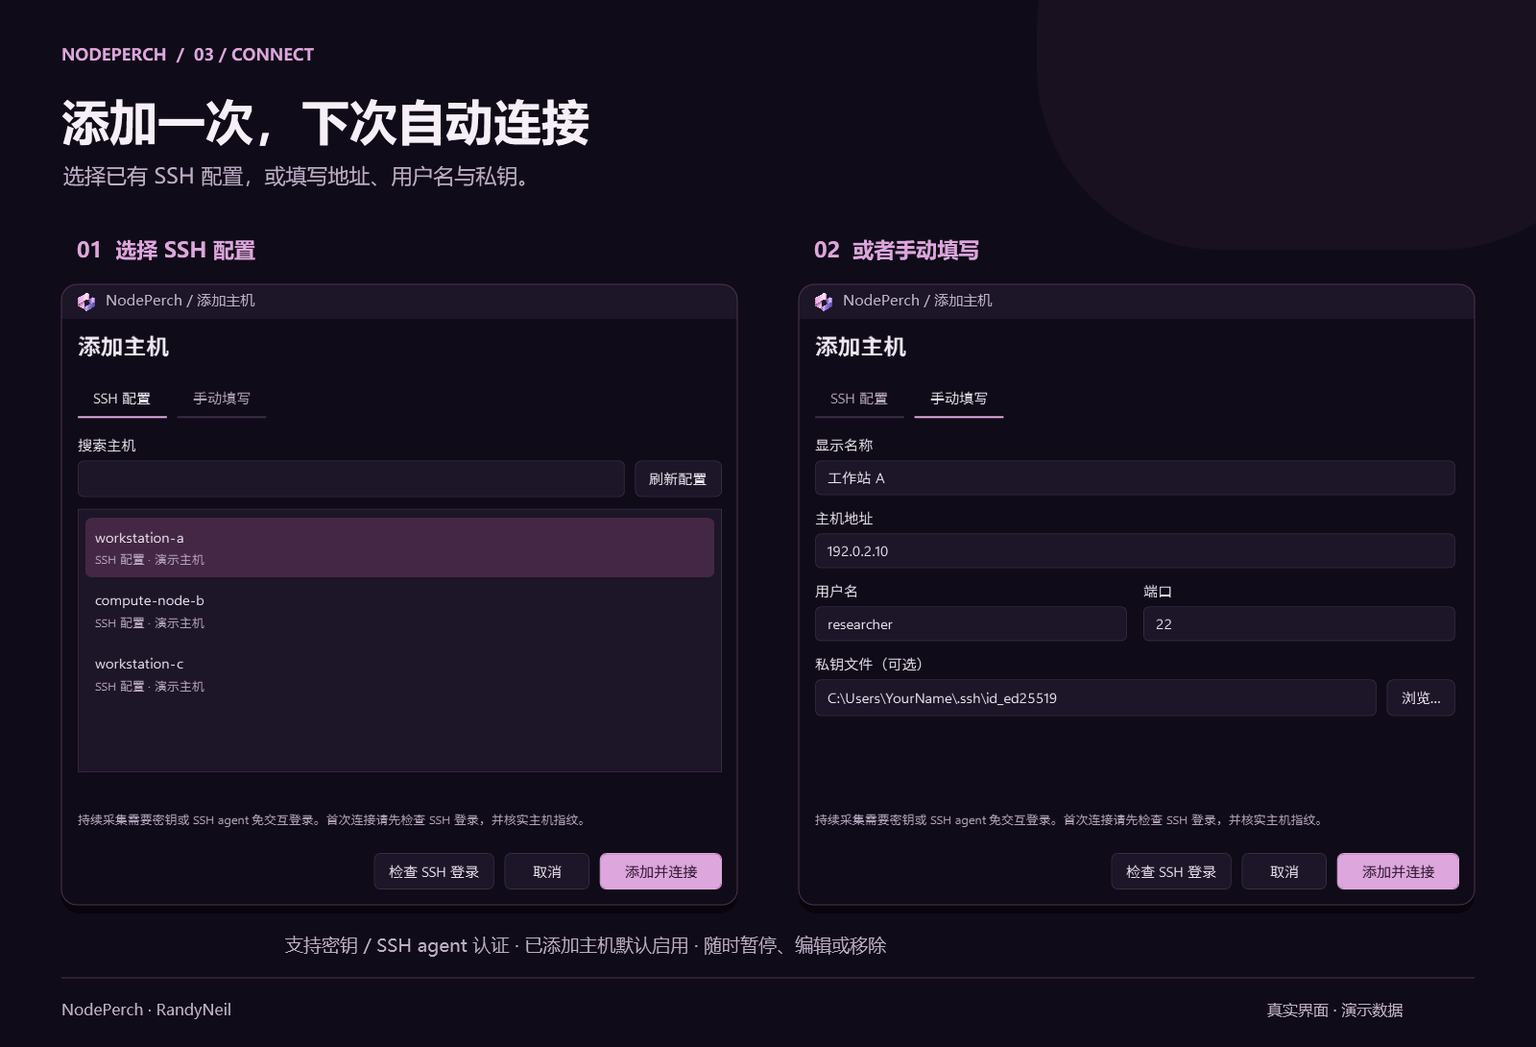
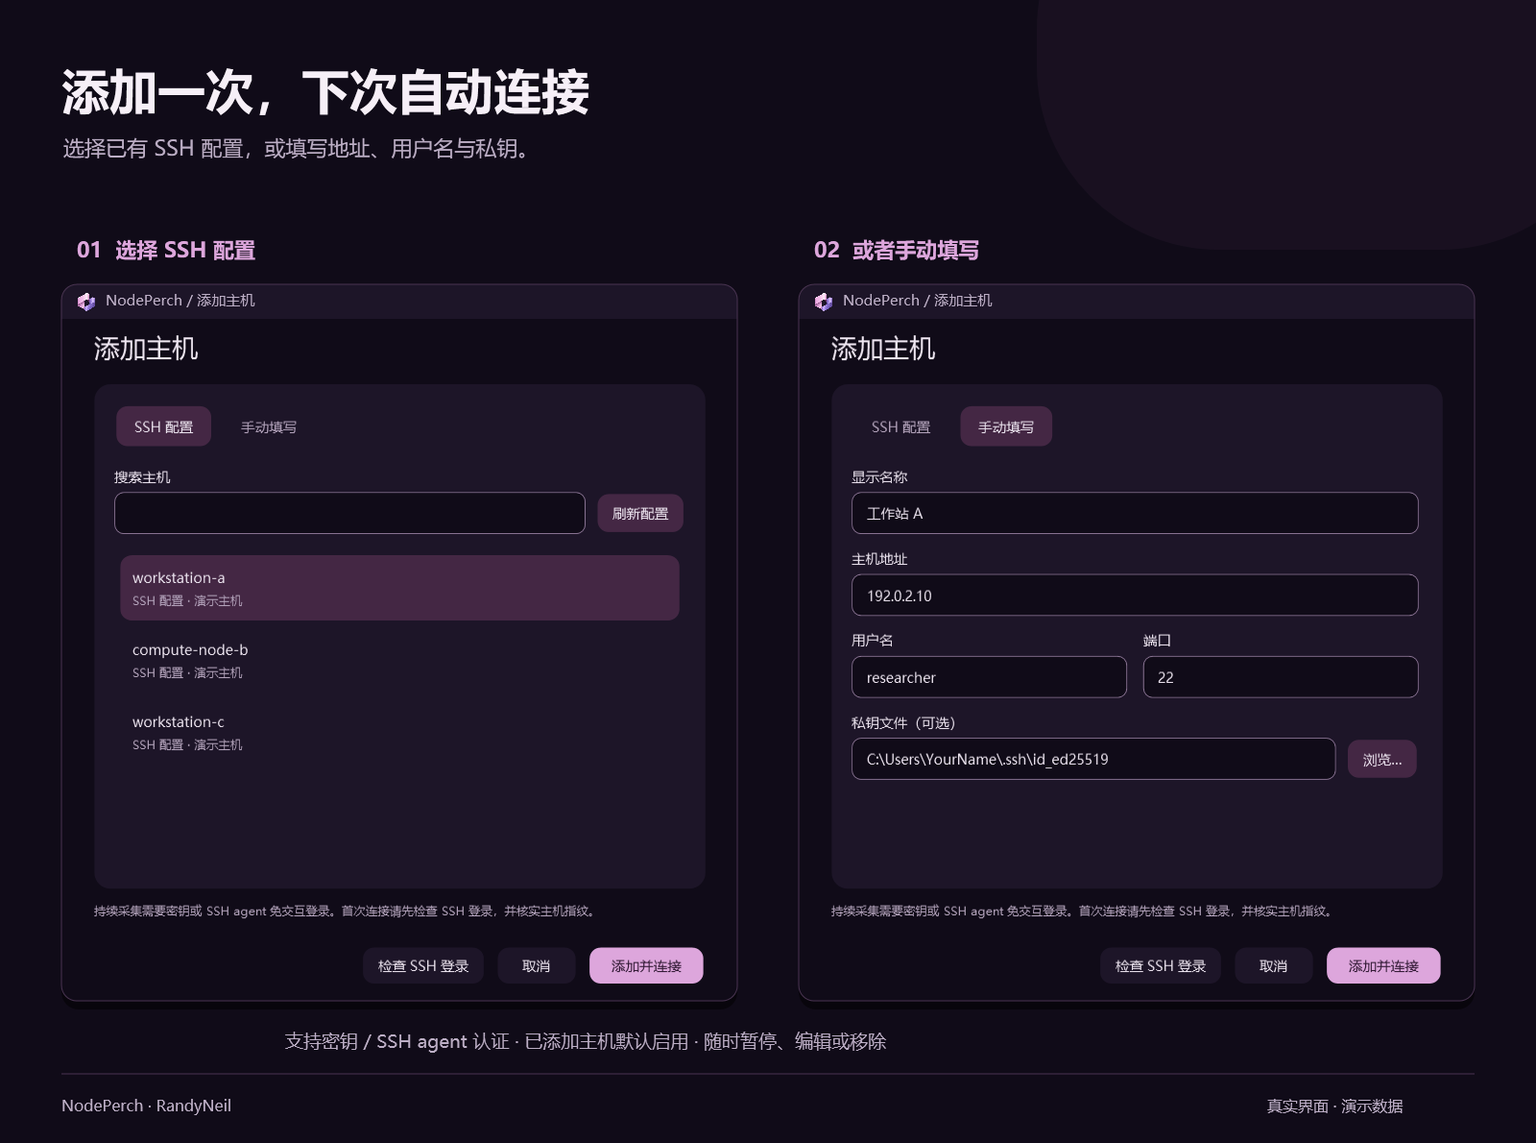
Publish collaboration preview guide and refreshed product screenshots

diff --git a/使用说明.md b/使用说明.md
@@ -1,40 +1,58 @@
 # NodePerch 使用说明
 
-作者：**RandyNeil**。当前版本：**0.4.0**。
+**版本：0.5.0-preview.14 · 协作预览版　作者：RandyNeil**
 
-NodePerch 是中文 Windows 资源看板，通过 SSH 查看多台 Linux／Windows 主机的 CPU、GPU、内存和进程。个人学习、非商业教学与科研可免费使用，完整许可见随包的 `LICENSE.txt`。商业使用和对外分发修改版需要作者另行书面授权。
+NodePerch 是中文 Windows 多机资源看板，通过 SSH 查看 Linux／Windows 主机的 CPU、GPU、内存和进程，并提供整机使用登记、排队和留言。
 
-## 打开与添加主机
+## 安装与连接
 
-1. 将整个 ZIP 解压到本机文件夹，双击 `NodePerch.exe`。不要在压缩包内直接运行，也不要只复制 EXE。
-2. 首次打开点击“添加第一台主机”。可以选择本机 SSH 配置中的别名，或手动填写名称、地址、用户名、端口和私钥路径。
-3. 新主机可点击“检查 SSH 登录”，在终端核实主机指纹和登录情况。完成后输入 `exit` 退出终端，再点击“添加并连接”。
-4. 持续采集需要密钥或 SSH agent 免交互登录。软件不保存密码或私钥内容；如果只能手动输入密码登录，后台采集仍会提示认证失败。
-5. 收到数据后主机加入列表并默认启用；以后启动自动连接全部启用主机。右键主机可以暂停、编辑连接或移除。
+1. 完整解压 Windows x64 运行包，双击 `NodePerch.exe`。不要在压缩包内直接运行，也不要只复制 EXE。
+2. 点击“添加主机”，选择已有 SSH 配置，或填写地址、用户名、端口和私钥路径。
+3. 首次连接可点击“检查 SSH 登录”，在终端核实主机指纹并完成登录；输入 `exit` 后返回看板。
+4. 点击“添加并连接”。后台采集需要密钥或 SSH agent 免交互登录，仅能手动输入密码的连接暂不适用。
 
-本机需要 64 位 Windows、.NET Framework 4.8 和 OpenSSH 客户端。打开看板不需要本机 Python、PowerShell 引擎或源代码。若提示缺少 SSH，请在 Windows“设置 → 可选功能”中安装 OpenSSH 客户端。
+| 位置 | 要求 |
+| --- | --- |
+| 本机 | 64 位 Windows、.NET Framework 4.8、OpenSSH 客户端 |
+| Linux 主机 | SSH 登录权限、`/usr/bin/python3` |
+| Windows 主机 | SSH 登录权限、PowerShell 5.1 |
+| NVIDIA GPU 指标 | 远端可执行 `nvidia-smi`；没有支持的显卡仍可查看 CPU 和内存 |
 
-远端需要已配置 SSH 服务。Linux 使用 `/usr/bin/python3`；Windows 使用 PowerShell 5.1；NVIDIA 指标需要 `nvidia-smi`。软件不自动安装这些组件，不在远端安装监控服务。
+本机无需安装 Python。程序不保存密码或私钥内容，不改写 SSH 配置；远端不安装常驻监控服务。
 
-## 日常使用
+## 查看资源
 
-- 每台启用主机默认五秒采样，保存最近十分钟 CPU／GPU 曲线。点击总览卡片进入详情，切换不停止其他主机采集。
-- CPU 表默认显示活跃进程；按内存排序时显示全部。未知指标显示“—”。
-- 点“×”收起到托盘，后台继续采集；最小化行为不变。右键托盘选择“退出”才彻底停止采集。重复启动恢复原窗口。
-- “关于”可查看作者、版本和完整使用许可。支持跟随系统、浅色、深色主题。
-- 更新前先从托盘退出旧版，再打开新版；旧版仍运行时双击新版会唤回旧窗口。已有设置继续保存在 `%LOCALAPPDATA%\SharedResourceDashboard\settings.json`。
-- 如需桌面入口，可右键 EXE 创建快捷方式，或运行随包的 `create_desktop_shortcut.ps1`。这个可选操作使用 Windows PowerShell，不影响直接打开 EXE。
+- 所有启用主机每五秒采样，缓存本次运行中最近十分钟的 CPU／GPU 曲线。总览与详情复用连接和缓存，切换页面不停止其他主机。
+- 总览每台主机一张卡片，CPU／GPU 分区显示，各条曲线有独立时间刻度。点击卡片进入详情；多 GPU 可在详情页选择显卡。
+- CPU 进程默认显示“活跃进程”；按内存排序时显示全部。筛选只影响界面，未知指标显示“—”。
+- 右键侧栏主机可重命名、编辑连接、暂停、启用或移除。离线自动重试；暂停显示橙色状态，离线显示红色状态。
+- 右上角太阳／月亮图标切换深浅主题。界面使用系统字体，动效遵循 Windows 动画设置。
 
-请保留 EXE、运行库、图标、许可与说明在同一发行目录。配置不随程序目录移动，分享包中也没有作者的主机设置或密钥。
+## 协作与留言
 
-## 分享与反馈
+点击“协作排队”，先保存昵称，再启用该主机协作。默认自动准备远端共享协作目录；不同 SSH 账号共同使用时，可能需要管理员配置目录权限。
 
-可以向同学免费转发完整、未修改的发行包，并保留署名和使用许可。
+支持申请、取消、开始／结束使用登记、排队成员状态和留言。当前使用者与下一位直接显示在资源详情和总览卡片中。留言按回车发送，Shift+回车换行；本人气泡靠右，其他成员靠左。“清空本机显示”仅隐藏自己的历史视图，新留言继续显示。
 
-- 项目主页：https://github.com/NeilRandy/NodePerch
-- 下载与版本记录：https://github.com/NeilRandy/NodePerch/releases
-- 问题反馈：https://github.com/NeilRandy/NodePerch/issues
+提醒默认关闭，可由本人在“协作设置”中开启。协作通过现有 SSH 会话每五秒同步；这是整机使用协调工具，不会阻止他人登录、限制计算任务或强制分配 GPU。昵称不是经过验证的个人身份，适合相互信任的团队使用。
 
-反馈时建议提供软件版本、Windows 版本、远端系统、操作步骤和错误文字。截图请遮盖不希望公开的地址、用户名及进程信息，不要发送私钥或密码。
+首次设置、排队规则、权限和本机双人演示见[协作使用指南](协作使用指南.md)。
 
-本机客户端为 C#／WPF 程序，远端采集脚本内嵌。软件采用非商业许可，完整条款见 `LICENSE.txt`。曲线只保存在内存中，退出后清空，不提供长期历史记录。
+## 托盘、设置与更新
+
+- 点“×”收起到托盘并继续采样；最小化行为不变。真正退出请使用托盘菜单“退出”。
+- 隐藏时停止界面刷新，后台采样与协作继续；重复启动会唤回原窗口。
+- 更新前先从托盘退出旧版，再解压并打开新版。旧版仍运行时，打开新版会唤回旧窗口。
+- 主机和主题保存在 `%LOCALAPPDATA%\SharedResourceDashboard\settings.json`，升级可沿用；协作偏好在旁边的 `settings.json.collaboration.json`。不要把该协作配置转发给其他成员。
+- 曲线只保存在内存中，真正退出后清空，不提供长期历史数据库。
+- 如需桌面入口，可在 Windows 中为 `NodePerch.exe` 创建快捷方式。
+
+公开包只提供编译程序、图标、许可和说明，不附项目源码或独立脚本。请保留运行库与图标的原有目录结构。
+
+## 反馈与许可
+
+[项目主页](https://github.com/NeilRandy/NodePerch) · [下载版本](https://github.com/NeilRandy/NodePerch/releases) · [提交问题](https://github.com/NeilRandy/NodePerch/issues)
+
+反馈请附软件版本、远端系统、操作步骤和错误文字。截图请遮盖私人地址、用户名和任务信息；不要上传密码、私钥或个人 SSH 配置。
+
+Copyright © 2026 **RandyNeil**。个人学习、非商业教学与科研可免费使用。商业使用及修改版对外分发需另行书面授权，具体以 `LICENSE.txt` 为准。

diff --git a/README.md b/README.md
@@ -1,54 +1,58 @@
 <h2 align="center">
-  <a href="https://github.com/NeilRandy/NodePerch/releases/download/v0.4.0/NodePerch-0.4.0-win-x64.zip">⬇ 下载 Windows 版 · v0.4.0</a>
+  <a href="https://github.com/NeilRandy/NodePerch/releases/download/v0.5.0-preview.14/NodePerch-0.5.0-preview.14-win-x64.zip">⬇ 下载 Windows 版 · 协作预览版</a>
 </h2>
 <p align="center">
-  公开预览版 · Windows x64<br>
+  v0.5.0-preview.14 · Windows x64 · 非商业许可<br>
   <a href="#安装与连接">安装与连接</a> ·
   <a href="使用说明.md">使用说明</a> ·
+  <a href="协作使用指南.md">协作指南</a> ·
   <a href="https://github.com/NeilRandy/NodePerch/releases">全部版本</a>
 </p>
 
-![NodePerch：五秒采样、十分钟曲线、多机总览](images/hero.png)
+![NodePerch：五秒采样、十分钟历史曲线、多机总览与主机协作](images/hero.png)
 
-![历史曲线：每台启用主机独立采样，切换时直接读取十分钟缓存](images/history.png)
+![历史性能曲线：查看 CPU、GPU 最近十分钟的变化，切换主机直接读取缓存](images/history.png)
 
-![多机总览：查看各主机的 CPU、GPU、可用内存和显存，点击进入详情](images/overview.png)
+![多机总览：CPU、GPU 独立面板与时间轴，直接查看当前使用者和下一位](images/overview.png)
 
-![添加主机：选择已有 SSH 配置或手动填写连接信息](images/connect.png)
+![新增主机协作：使用登记、申请排队、左右留言气泡与自选提醒](images/collaboration.png)
 
-<sub>以上为真实界面与演示数据。曲线保存在本次运行的内存中，退出后清空。</sub>
+![添加主机：选择已有 SSH 配置，或手动填写连接信息](images/connect.png)
+
+<sub>图片来自当前版本的真实界面，主机、成员及性能数值均为演示数据。历史曲线保存在本次运行的内存中，退出后清空。</sub>
 
 ## 安装与连接
 
-1. **下载并解压** [Windows 运行包](https://github.com/NeilRandy/NodePerch/releases/download/v0.4.0/NodePerch-0.4.0-win-x64.zip)，双击 `NodePerch.exe`。请完整解压，不要只复制 EXE。
-2. **添加主机**：选择 SSH 别名，或手动填写地址、用户名、端口和私钥路径。
-3. **检查登录**：首次连接可点“检查 SSH 登录”，在终端核实主机指纹并检查登录，完成后输入 `exit`。
-4. **开始查看**：点击“添加并连接”，收到数据后即可使用。后台采集需要密钥或 SSH agent 免交互登录；仅能手动输入密码的连接尚不能用于持续采集。
+1. **下载并完整解压** [Windows 运行包](https://github.com/NeilRandy/NodePerch/releases/download/v0.5.0-preview.14/NodePerch-0.5.0-preview.14-win-x64.zip)，双击 `NodePerch.exe`。
+2. **添加主机**：选择 SSH 别名，或填写地址、用户名、端口和私钥路径。
+3. **检查登录**：首次连接可点“检查 SSH 登录”，核实主机指纹并完成登录，输入 `exit` 返回看板。
+4. **开始查看**：点击“添加并连接”。持续采集需要密钥或 SSH agent 免交互登录。
 
-> 请下载名称为 `NodePerch-0.4.0-win-x64.zip` 的运行包。GitHub 的 Code → Download ZIP 和自动生成的 Source code 仅包含介绍资料，不能运行程序。需要校验下载文件时，可使用 [SHA-256 校验文件](https://github.com/NeilRandy/NodePerch/releases/download/v0.4.0/NodePerch-0.4.0-win-x64.zip.sha256)。
-
-### 运行要求
+> 更新前请先从托盘退出旧版，否则会唤回旧窗口。GitHub 自动生成的 **Source code** 和 **Code → Download ZIP** 只有本仓库的介绍资料，不能运行程序。下载校验见 [SHA-256 文件](https://github.com/NeilRandy/NodePerch/releases/download/v0.5.0-preview.14/NodePerch-0.5.0-preview.14-win-x64.zip.sha256)。
 
 | 位置 | 要求 |
 | --- | --- |
 | 本机 | 64 位 Windows、.NET Framework 4.8、OpenSSH 客户端 |
 | Linux 主机 | SSH 服务、登录权限、`/usr/bin/python3` |
 | Windows 主机 | SSH 服务、登录权限、PowerShell 5.1 |
-| NVIDIA GPU 指标 | 远端可执行 `nvidia-smi`；没有 NVIDIA 显卡仍可查看 CPU、内存等指标 |
+| NVIDIA GPU 指标 | 远端可执行 `nvidia-smi`；没有支持的显卡仍可查看 CPU 和内存 |
 
-本机无需安装 Python，远端无需安装常驻监控服务。程序不保存密码或私钥内容，也不修改 SSH 配置。
+本机无需 Python，远端无需常驻监控服务。软件不保存密码或私钥内容，不修改 SSH 配置。
 
-### 使用与更新
+## 开始协作
 
-- 点“×”收起到托盘并继续采样；托盘菜单中的“退出”才会彻底关闭程序。更新前请先退出旧版。
-- 主机、启用状态和主题保存在 `%LOCALAPPDATA%\SharedResourceDashboard\settings.json`，更新程序可沿用。
-- 进程筛选、暂停主机、编辑连接等操作见[使用说明](使用说明.md)。
+连接主机后，点击“协作排队” → 保存昵称 → 启用此主机协作，即可申请排队或留言。默认自动准备共享目录，不同 SSH 账号可能需要管理员配置目录权限；托盘提醒由本人选择开启，默认关闭。
 
-## 反馈
+这是整机使用登记与协调功能，不会限制他人登录或运行任务。留言对房间成员可见，指定成员只决定提醒对象。昵称尚不具备严格身份认证，适合相互信任的团队。[查看协作规则与权限说明 →](协作使用指南.md)
 
-遇到问题或有功能建议，可以[提交 Issue](https://github.com/NeilRandy/NodePerch/issues)。请附软件版本、远端系统、操作步骤和错误文字；截图请遮盖不希望公开的主机信息，不要上传密码、私钥或个人 SSH 配置。
+## 日常使用与反馈
 
-已发布功能见[版本记录](CHANGELOG.md)。
+- 点“×”收起到托盘并继续采样；托盘菜单中的“退出”才会彻底关闭。
+- 原有主机与主题设置可沿用；暂停、编辑连接、进程筛选和留言清理见[使用说明](使用说明.md)。
+- 本仓库只提供下载入口、介绍图片和用户文档，不公开项目源码。
+- 遇到问题可[提交 Issue](https://github.com/NeilRandy/NodePerch/issues)，附版本、远端系统、操作步骤和错误文字。请勿上传密码、私钥或个人 SSH 配置，截图请遮盖私人信息。
+
+本次新增功能与修复见[版本记录](CHANGELOG.md)。
 
 ## 署名与许可
 
@@ -56,4 +60,4 @@ Copyright © 2026 **RandyNeil**。
 
 NodePerch 采用**非商业许可**。个人学习、非商业教学与科研可免费使用；免费转发完整原版时须保留署名和许可。商业使用、商业集成、收费部署，以及向本人或所在课题组以外分发修改版，需要作者另行书面授权。
 
-使用范围以发行包内的 [LICENSE.txt](LICENSE.txt) 为准。如需讨论授权，可先在仓库提出请求；公开留言本身不代表已获得授权。
+具体以 [LICENSE.txt](LICENSE.txt) 为准。如需讨论授权，可先在仓库提出请求；公开留言本身不代表已获得授权。

diff --git a/协作使用指南.md b/协作使用指南.md
@@ -1,0 +1,65 @@
+# NodePerch 协作使用指南
+
+适用于 **0.5.0-preview.14**。协作提供整台主机的使用登记、排队、留言和自选提醒，不会停止任务、限制他人登录或锁定 GPU。
+
+## 首次使用
+
+1. 添加主机并确认资源采样正常，点击顶部“协作排队”。
+2. 填写昵称并点击“保存身份”，再打开“启用此主机协作”。
+3. 等待显示“已连接”后，即可申请排队或发送留言。加入房间不会自动占用主机。
+4. 后续点击“协作排队”直接进入房间；需要更改偏好时进入右上方“协作设置”。
+
+默认不需要填写目录。首次启用会重建这台主机的采集会话以接入协作，已有曲线缓存保留，其他主机不受影响。接入后，协作和采样共用同一条 SSH 连接。关闭协作窗口不停止同步。
+
+## 排队与使用登记
+
+- 点击“申请排队”，填写预计时长和可选附言，然后提交。
+- 请求按主机实际处理的顺序入队。轮到自己后，在五分钟内点击“开始使用”；超时未确认会顺延。
+- 使用完点击“结束使用”，不再等待则点击“取消排队”。正常界面中只能结束自己的登记。
+- 预计时长只用于协调，不会到时停止任务。关闭程序、暂停或断线，也不会自动释放正在使用的登记。
+- 当前使用者和下一位显示在总览及资源详情中。无人登记不代表主机没有任务；“未同步”表示需要等连接恢复后确认最新状态。
+- 当前按整台主机排队，不按单张 GPU 分配，也没有管理员代他人强制释放按钮。
+
+## 留言与提醒
+
+本人留言靠右，其他成员靠左。回车发送，Shift+回车换行；中文输入法选词期间的回车不发送。申请附言和留言最多 500 字。
+
+留言对整个房间可见，“提醒谁”只决定通知对象，不是私聊。提醒默认关闭，需要本人在“协作设置”开启；系统通知还受 Windows 设置影响。程序退出、电脑休眠或 SSH 断开时不能即时提醒。
+
+主机端每五秒同步协作状态，发送操作会立即提交处理。其他成员通常在下一轮同步看到变化。若长时间“发送中”，界面会提示等待确认超时；未确认操作会保留原序号，在重连后核对，避免重复执行。
+
+留言选项中的“清空本机显示”只隐藏本机当前主机已有记录，其他成员不受影响；新留言仍显示，重启保留此偏好。“恢复历史显示”只能恢复房间仍保存的记录。房间最多保留最近 120 条协作事件，包括留言和排队动态。
+
+## 共享目录与权限
+
+自动准备的位置在远端主机：
+
+| 系统 | 默认位置 |
+| --- | --- |
+| Linux | `/var/tmp/nodeperch-collaboration` |
+| Windows | 系统公共数据目录下的 `NodePerch\Collaboration`，通常为 `C:\ProgramData\NodePerch\Collaboration` |
+
+自动准备只使用当前 SSH 账号权限，不提权、不开放所有人写入。不同账号协作时，需要管理员为参与者配置目录和新文件的共同访问权限：Linux 可使用共享组、组继承及默认 ACL；Windows 使用目录安全权限并允许所需的文件修改与替换。只调整协作目录，不调整业务目录。
+
+权限不足时按界面显示的路径处理，再点击“重新连接”。已有房间无需重新初始化；不要删除锁文件或重建房间来解决普通连接问题。Linux 默认路径可能受主机临时文件清理策略影响，长期使用时应由管理员明确保留策略。
+
+使用主机本地磁盘，不使用 NFS、SMB 网络共享。旧版自定义目录会继续沿用；参与者必须选择同一个房间位置。没有准备好的自定义房间时，优先使用自动准备的默认位置。
+
+协作文件使用锁和完整文件替换来协调正常客户端并发写入，但这不是防篡改机制。昵称和本机客户端 ID 尚未绑定经过验证的个人身份；有目录写权限的人仍可直接修改数据。本版适合相互信任的团队，不提供严格成员认证或管理员权限隔离。
+
+不要把 `settings.json.collaboration.json` 复制给别人，否则会共用身份。即使多人用不同私钥登录同一 SSH 账号，本版也不会因此自动识别为经过验证的不同人员。
+
+## 可选：本机双人演示
+
+在解压目录打开 PowerShell，分别执行：
+
+```powershell
+.\NodePerch.exe -DemoUser "甲"
+.\NodePerch.exe -DemoUser "乙"
+```
+
+两个窗口使用模拟性能数据和独立身份，不访问真实主机。演示数据保存在 `%LOCALAPPDATA%\NodePerchDemo`；可测试甲申请并开始、乙排队、互相留言、甲结束后乙接续。测试结束先结束登记或取消排队，再从两个托盘退出。升级时先退出旧演示，同一身份重复启动会唤回已有窗口。
+
+## 遇到问题
+
+协作不可用不等于性能采集不可用。请记录版本、主机系统、错误文字，以及是否使用不同 SSH 账号，在 [GitHub Issues](https://github.com/NeilRandy/NodePerch/issues) 反馈。文件损坏时先保留原文件，由管理员检查；不要公开上传含真实留言或成员信息的房间文件。

diff --git a/CHANGELOG.md b/CHANGELOG.md
@@ -1,5 +1,20 @@
 # 版本记录
 
+## 0.5.0-preview.14 — 2026-11-06
+
+主机协作公开预览版，在 v0.4.0 的资源监控基础上增加排队和留言。
+
+- 新增整机使用登记、申请／取消排队、队首先确认开始、结束后顺延，以及成员在线状态。
+- 新增左右气泡留言，回车发送、Shift+回车换行与中文输入法保护；支持仅清空本机留言视图及恢复仍保留的历史。
+- 协作提醒由本人选择开启，默认关闭；总览和详情直接显示当前使用者与下一位。
+- 首次先保存昵称再启用协作，默认自动准备共享目录；采样与协作复用现有 SSH 会话。
+- 总览 CPU／GPU 内嵌面板、独立时间轴、加高图表及统一等待状态；深浅主题改为图标切换。
+- 更新协作布局、点击式开关、侧栏过渡和操作反馈；保留系统字体、原图标与中文风格。
+- 修复 Windows 留言持续等待、未确认操作缺少超时反馈、鼠标焦点残留导致回车重触发，以及顶部图标裁切。
+- 更新五张真实界面演示图，补充协作指南；公开运行包仅含编译程序、图标、许可、说明与校验清单，不附项目源码或独立脚本。
+
+继续保持每台启用主机五秒采样、十分钟内存曲线缓存、切换不断连和托盘后台采集。协作为整机协调，不限制任务或提供严格身份认证；不同账号使用时须配置共享目录权限，详见[协作使用指南](协作使用指南.md)。
+
 ## 0.4.0 — 2026-11-05
 
 首个 GitHub 公开预览版，面向 64 位 Windows。
